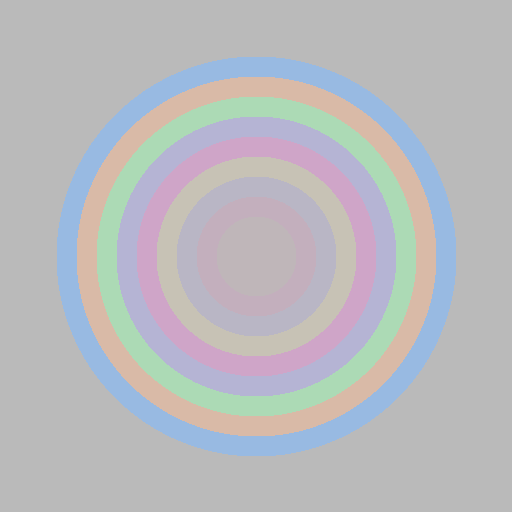
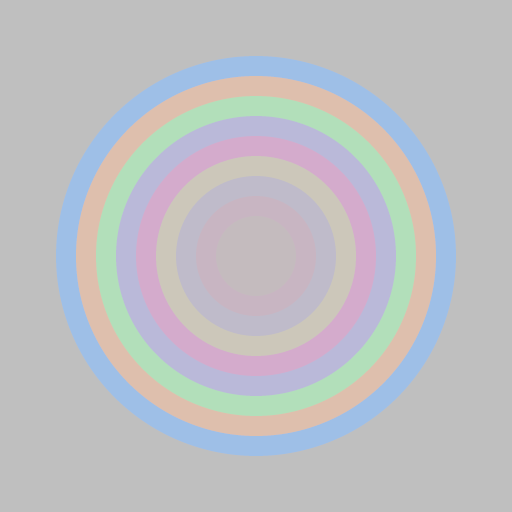
fixed 6th

diff --git a/src/hw1.cpp b/src/hw1.cpp
@@ -267,7 +267,6 @@ Image3 hw_1_5(const std::vector<std::string> &params) {
 
 
 Image3 hw_1_6(const std::vector<std::string> &params) {
-    // Homework 1.6: alpha blending
     if (params.size() == 0) {
         return Image3(0, 0);
     }
@@ -276,44 +275,63 @@ Image3 hw_1_6(const std::vector<std::string> &params) {
     std::cout << scene << std::endl;
 
     Image3 img(scene.resolution.x, scene.resolution.y);
+    int samples = 4;  // 4x4 sampling pattern
 
     for (int y = 0; y < img.height; y++) {
         for (int x = 0; x < img.width; x++) {
-            Vector2 pixel_point{static_cast<Real>(x), static_cast<Real>(y)};
             Vector3 accumulated_color = scene.background;
-            Real accumulated_alpha = 1.0;
+            Real accumulated_alpha_main = 1.0;
 
-            for (const auto& shape : scene.shapes) {
-                Vector3 current_shape_color;
-                Real current_shape_alpha = 0.0;
+            // Anti-aliasing: sample each pixel multiple times
+            for (int i = 0; i < samples; i++) {
+                for (int j = 0; j < samples; j++) {
+                    Vector2 pixel_point(x + Real(i + 0.5) / samples, y + Real(j + 0.5) / samples);
+                    Real accumulated_alpha_sample = 1.0;
+                    Vector3 sample_color = scene.background;
 
-                if (auto *circle = std::get_if<Circle>(&shape)) {
-                    if (is_inside_circle(pixel_point, *circle)) {
-                        current_shape_color = circle->color;
-                        current_shape_alpha = circle->alpha;
+                    for (const auto& shape : scene.shapes) {
+                        Matrix3x3 shapeTransform = get_transform(shape);
+                        Matrix3x3 inverseTransform = inverse(shapeTransform);
+                        Vector3 transformedPoint3 = inverseTransform * Vector3{pixel_point.x, pixel_point.y, 1.0};
+                        Vector2 transformedPoint = Vector2{transformedPoint3.x, transformedPoint3.y};
+
+                        Vector3 current_shape_color;
+                        Real current_shape_alpha = 0.0;
+
+                        if (auto *circle = std::get_if<Circle>(&shape)) {
+                            if (is_inside_circle(transformedPoint, *circle)) {
+                                current_shape_color = circle->color;
+                                current_shape_alpha = circle->alpha;
+                            }
+                        } else if (auto *rectangle = std::get_if<Rectangle>(&shape)) {
+                            if (is_inside_rectangle(transformedPoint, *rectangle)) {
+                                current_shape_color = rectangle->color;
+                                current_shape_alpha = rectangle->alpha;
+                            }
+                        } else if (auto *triangle = std::get_if<Triangle>(&shape)) {
+                            if (is_inside_triangle(transformedPoint, *triangle)) {
+                                current_shape_color = triangle->color;
+                                current_shape_alpha = triangle->alpha;
+                            }
+                        }
+
+                        // Alpha blending for this sample
+                        sample_color = current_shape_alpha * current_shape_color + (1 - current_shape_alpha) * sample_color;
+                        accumulated_alpha_sample *= (1 - current_shape_alpha);
                     }
-                } else if (auto *rectangle = std::get_if<Rectangle>(&shape)) {
-                    if (is_inside_rectangle(pixel_point, *rectangle)) {
-                        current_shape_color = rectangle->color;
-                        current_shape_alpha = rectangle->alpha;
-                    }
-                } else if (auto *triangle = std::get_if<Triangle>(&shape)) {
-                    if (is_inside_triangle(pixel_point, *triangle)) {
-                        current_shape_color = triangle->color;
-                        current_shape_alpha = triangle->alpha;
-                    }
+
+                    accumulated_color += sample_color;
                 }
-
-                accumulated_color = current_shape_alpha * current_shape_color + (1 - current_shape_alpha) * accumulated_color;
-                accumulated_alpha *= (1 - current_shape_alpha);
             }
 
+            accumulated_color /= Real(samples * samples); // Average the color for anti-aliasing
             img(x, y) = accumulated_color;
         }
     }
 
     return img;
 }
+
 
 
 
